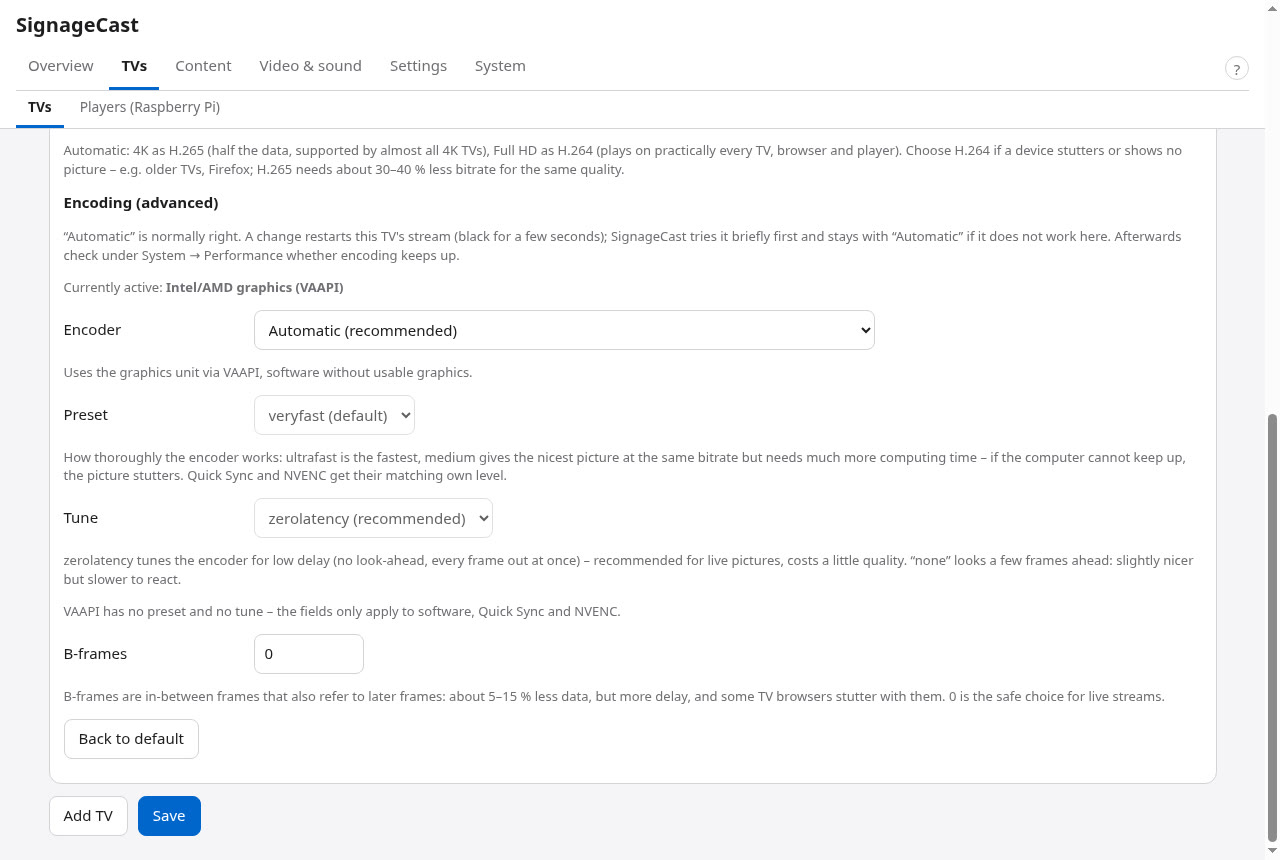
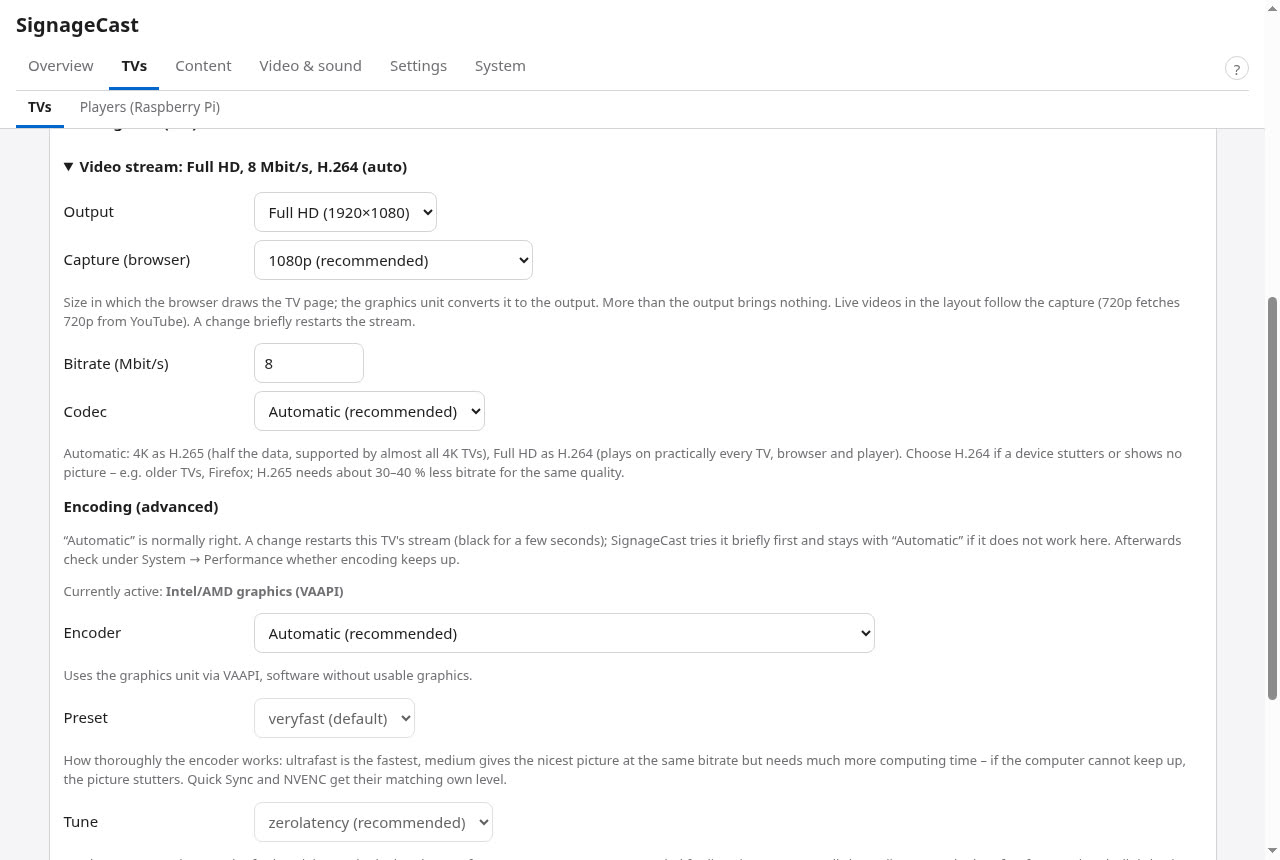
Tour mit 0.29 neu aufgenommen (neu: Müll-Symbole auf dem TV, CSV-Import mit Zeilenfilter, Aufnahmegröße); Kalender-Symbole: Beschriftungen laufen nicht mehr ineinander
Claude-Session: https://claude.ai/code/session_01LNDhmfSQXqarshduJ2BAH1

diff --git a/www/seite.js b/www/seite.js
@@ -268,8 +268,11 @@ function fuellen() {
           if (o.nur_mit_terminen && !sym.length) sichtbar = false;
           const n = Math.max(sym.length, 1);
           const gr = Math.max(8, Math.min(d.clientHeight * (o.wann ? 0.62 : 0.85), d.clientWidth / n * 0.8));
-          d.innerHTML = `<div class="symbole">${sym.map((s) => `<div class="symbol" title="${esc(s.titel)}"><span class="mdi ${esc(s.icon)}" style="font-size:${gr}px${s.farbe ? ";color:" + s.farbe : ""}"></span>` +
-            (o.wann ? `<span class="wann" style="font-size:${Math.max(8, gr * 0.28)}px">${esc(s.wann)}</span>` : "") + "</div>").join("")}</div>`;
+          // Beschriftung so klein, dass sie in ihren Platz passt (sonst laufen z. B. zweimal „Morgen“ ineinander)
+          const lang = Math.max(1, ...sym.map((s) => (s.wann || "").length));
+          const wg = Math.max(8, Math.min(gr * 0.28, (d.clientWidth / n) * 0.9 / (lang * 0.55)));
+          d.innerHTML = `<div class="symbole" style="gap:${Math.round(gr * 0.2)}px">${sym.map((s) => `<div class="symbol" title="${esc(s.titel)}"><span class="mdi ${esc(s.icon)}" style="font-size:${gr}px${s.farbe ? ";color:" + s.farbe : ""}"></span>` +
+            (o.wann ? `<span class="wann" style="font-size:${wg}px">${esc(s.wann)}</span>` : "") + "</div>").join("")}</div>`;
           break;
         }
         const zeilen = termine.length + (o.titel ? 1 : 0) || 1;

diff --git a/docs/TOUR.md b/docs/TOUR.md
@@ -1,8 +1,9 @@
 # SignageCast – screenshot tour
 
 A walk through SignageCast: what the TV shows and how you set it up in the browser. All pictures are from a demo
-installation (location Berlin, public example data, no Home Assistant connected). The admin pictures show versions
-0.17–0.23 with the six areas Overview, TVs, Content, Video & sound, Settings and System.
+installation (location Berlin, public example data, no Home Assistant connected). The admin pictures show version
+0.29 (layout editor, players and docker login from 0.20–0.23) with the six areas Overview, TVs, Content, Video & sound,
+Settings and System.
 
 [← README](../README.md) · [installation](INSTALL.md) · [manual](MANUAL.md) · [how it works](HOW-IT-WORKS.md)
 
@@ -15,6 +16,12 @@ A live wildlife cam from wherever it is daytime right now, with clock, weather f
 The bar below mixes your own data: the Rhine water level and the Bitcoin price from public APIs, and a countdown.
 
 ![TV with live cam, weather and own data](tour/01-tv-living-room.jpg)
+
+The same TV with the *Calendar / waste collection* element as **icons only** in the top right corner: residual waste
+and recycling are collected tomorrow (example data from a CSV file). The icons appear three days before the pickup and
+disappear afterwards by themselves.
+
+![TV with waste collection icons in the corner](tour/01a-tv-waste-icons.jpg)
 
 ### 2. Data dashboard
 A second TV with a layout built only from data sources: API value, gauge as bar and traffic light, a 24-hour chart
@@ -55,7 +62,8 @@ synchronised”), video encoding (graphics unit or software fallback), Home Assi
 
 ### 7. TVs
 Each TV has its own address, layout, optional schedule (other layout or black at certain times), sound (radio or the
-original sound of the cams), volume, categories and video settings (4K/Full HD, bitrate).
+original sound of the cams), volume, categories and video settings: output Full HD (default) or 4K, the **capture
+size** the browser draws in (720p saves CPU, 1440p is sharper), bitrate and codec.
 
 ![TV settings](tour/05-tvs.jpg)
 
@@ -106,6 +114,11 @@ corner when residual waste is collected in the next days (rules *title contains 
 template).
 
 ![Data sources with response tree](tour/07-data-sources.jpg)
+
+A waste calendar from a CSV file: delimiter and character set detected, columns ticked, a row filter (*DISTRICT is
+empty* – drops bulky and hazardous waste dates of other districts) and the date and title column for the calendar.
+
+![CSV import with row filter and calendar columns](tour/07a-csv-import.jpg)
 
 ### 11. Import from curl
 Paste a `curl` command from an API guide – address, method and headers are filled in, `Authorization` is marked as a
@@ -194,7 +207,9 @@ Die Verwaltung ist seit 0.17 in sechs Bereiche gegliedert (Übersicht mit „Zu 
 Video & Ton, Einstellungen, System). Neu seit 0.17–0.19: Layouts-Übersicht mit Kacheln, Ebenen im Editor,
 Leistungstest mit Empfehlungen und das Durchsage-Pult. Neu seit 0.20–0.23: Empfangs-Layout mit PDF, Webseite als
 Bildschirmfoto und Hinweis mit Zeitraum, das rote Notfall-Vollbild, die Kodierung je Fernseher und die Seite
-„Player (Raspberry Pi)“ mit einem simulierten Pi (am echten Gerät noch nicht getestet). Die Tour zeigt zuerst zwei Fernseher – Live-Tierkamera mit Wetter und eigenen Daten (Rheinpegel, Bitcoin, Countdown)
+„Player (Raspberry Pi)“ mit einem simulierten Pi (am echten Gerät noch nicht getestet). Neu seit 0.26–0.29 (Bilder
+mit 0.29 neu aufgenommen): Müllabfuhr als Symbole oben rechts auf dem Fernseher, CSV-Import mit Zeilenfilter und
+Termin-Spalten sowie Ausgabe (Standard Full HD) und Aufnahmegröße je Fernseher. Die Tour zeigt zuerst zwei Fernseher – Live-Tierkamera mit Wetter und eigenen Daten (Rheinpegel, Bitcoin, Countdown)
 sowie ein reines Daten-Layout (Diagramm mit echten Pegelwerten, Feiertage per iCal, Feed, QR-Code). Danach die
 Verwaltung: SignageCast als Menüpunkt in Cockpit, Übersicht mit „Zu erledigen“, Fernseher, Layout-Editor mit Pfad-Auswahl, Datenquellen
 mit Antwort-Baum und curl-Import, Streams, Radio, Einspieler mit Puffer, Verbindung mit Zeitquelle, Updates

diff --git a/CHANGELOG.md b/CHANGELOG.md
@@ -1,5 +1,10 @@
 # Changelog
 
+## Unreleased
+- Calendar element, icons only: the labels below the icons (e.g. *Tomorrow* twice) no longer run into each other – the
+  text shrinks to fit its icon and the icons get spacing.
+- Screenshot tour renewed with 0.29 (new: waste icons on the TV, CSV import with row filter, capture size).
+
 ## v0.29.0 (2026-11-06)
 Performance release – stability, security and performance rank equally in SignageCast.
 - **Capture size per TV:** TVs → Video stream → *Capture (browser)*: 720p, 1080p (default) or 1440p. The browser draws
